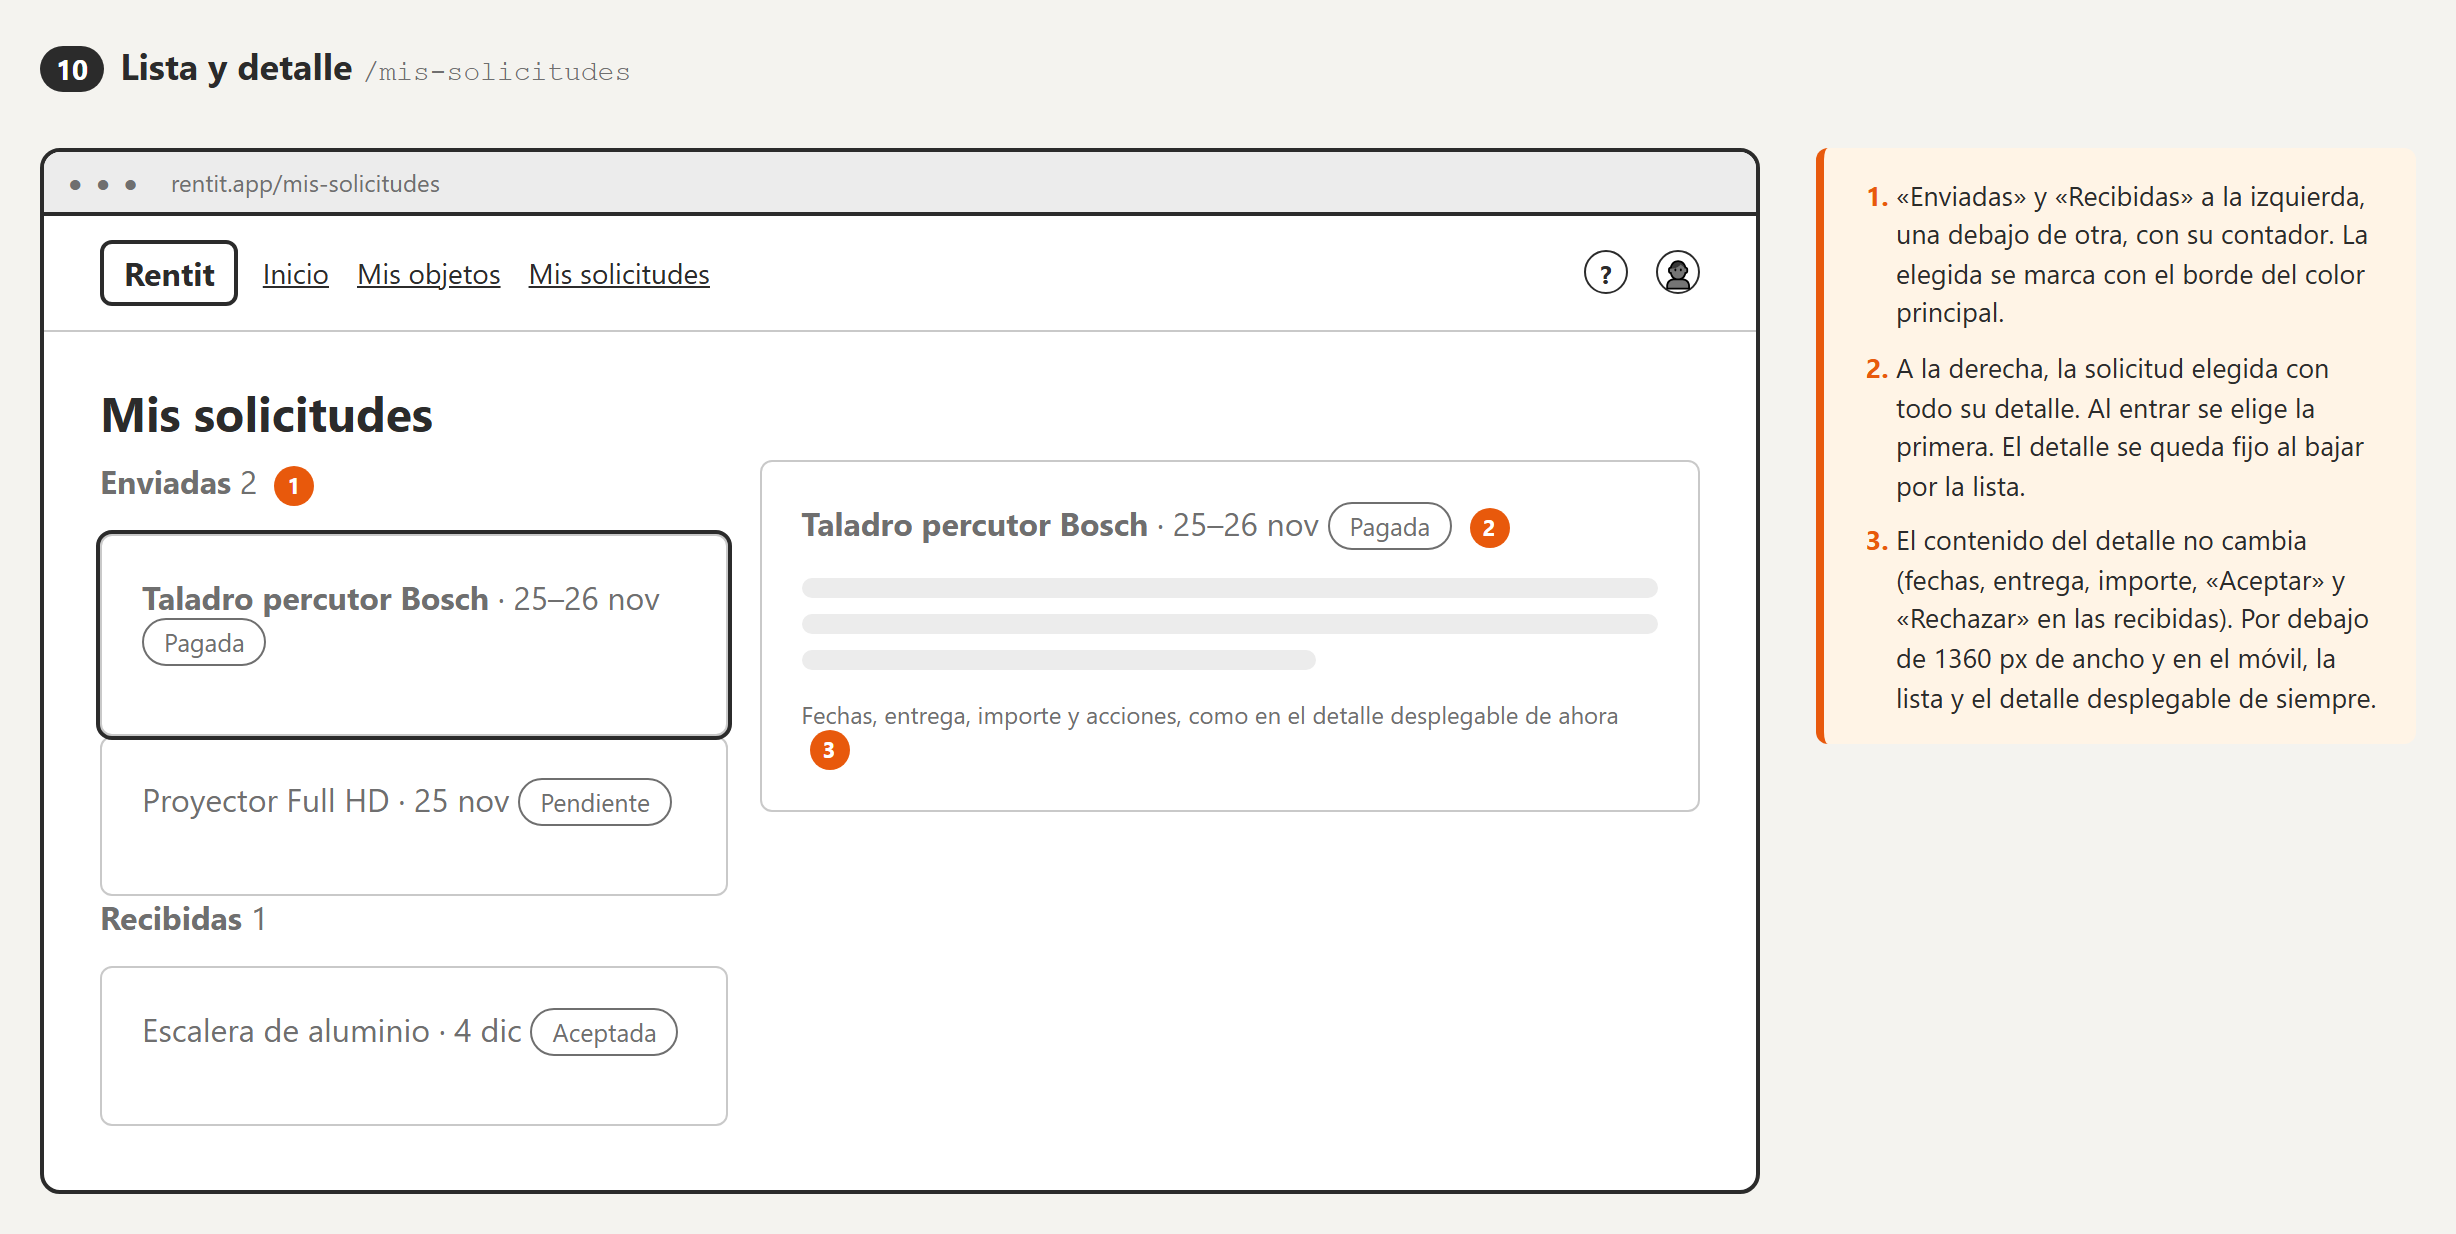
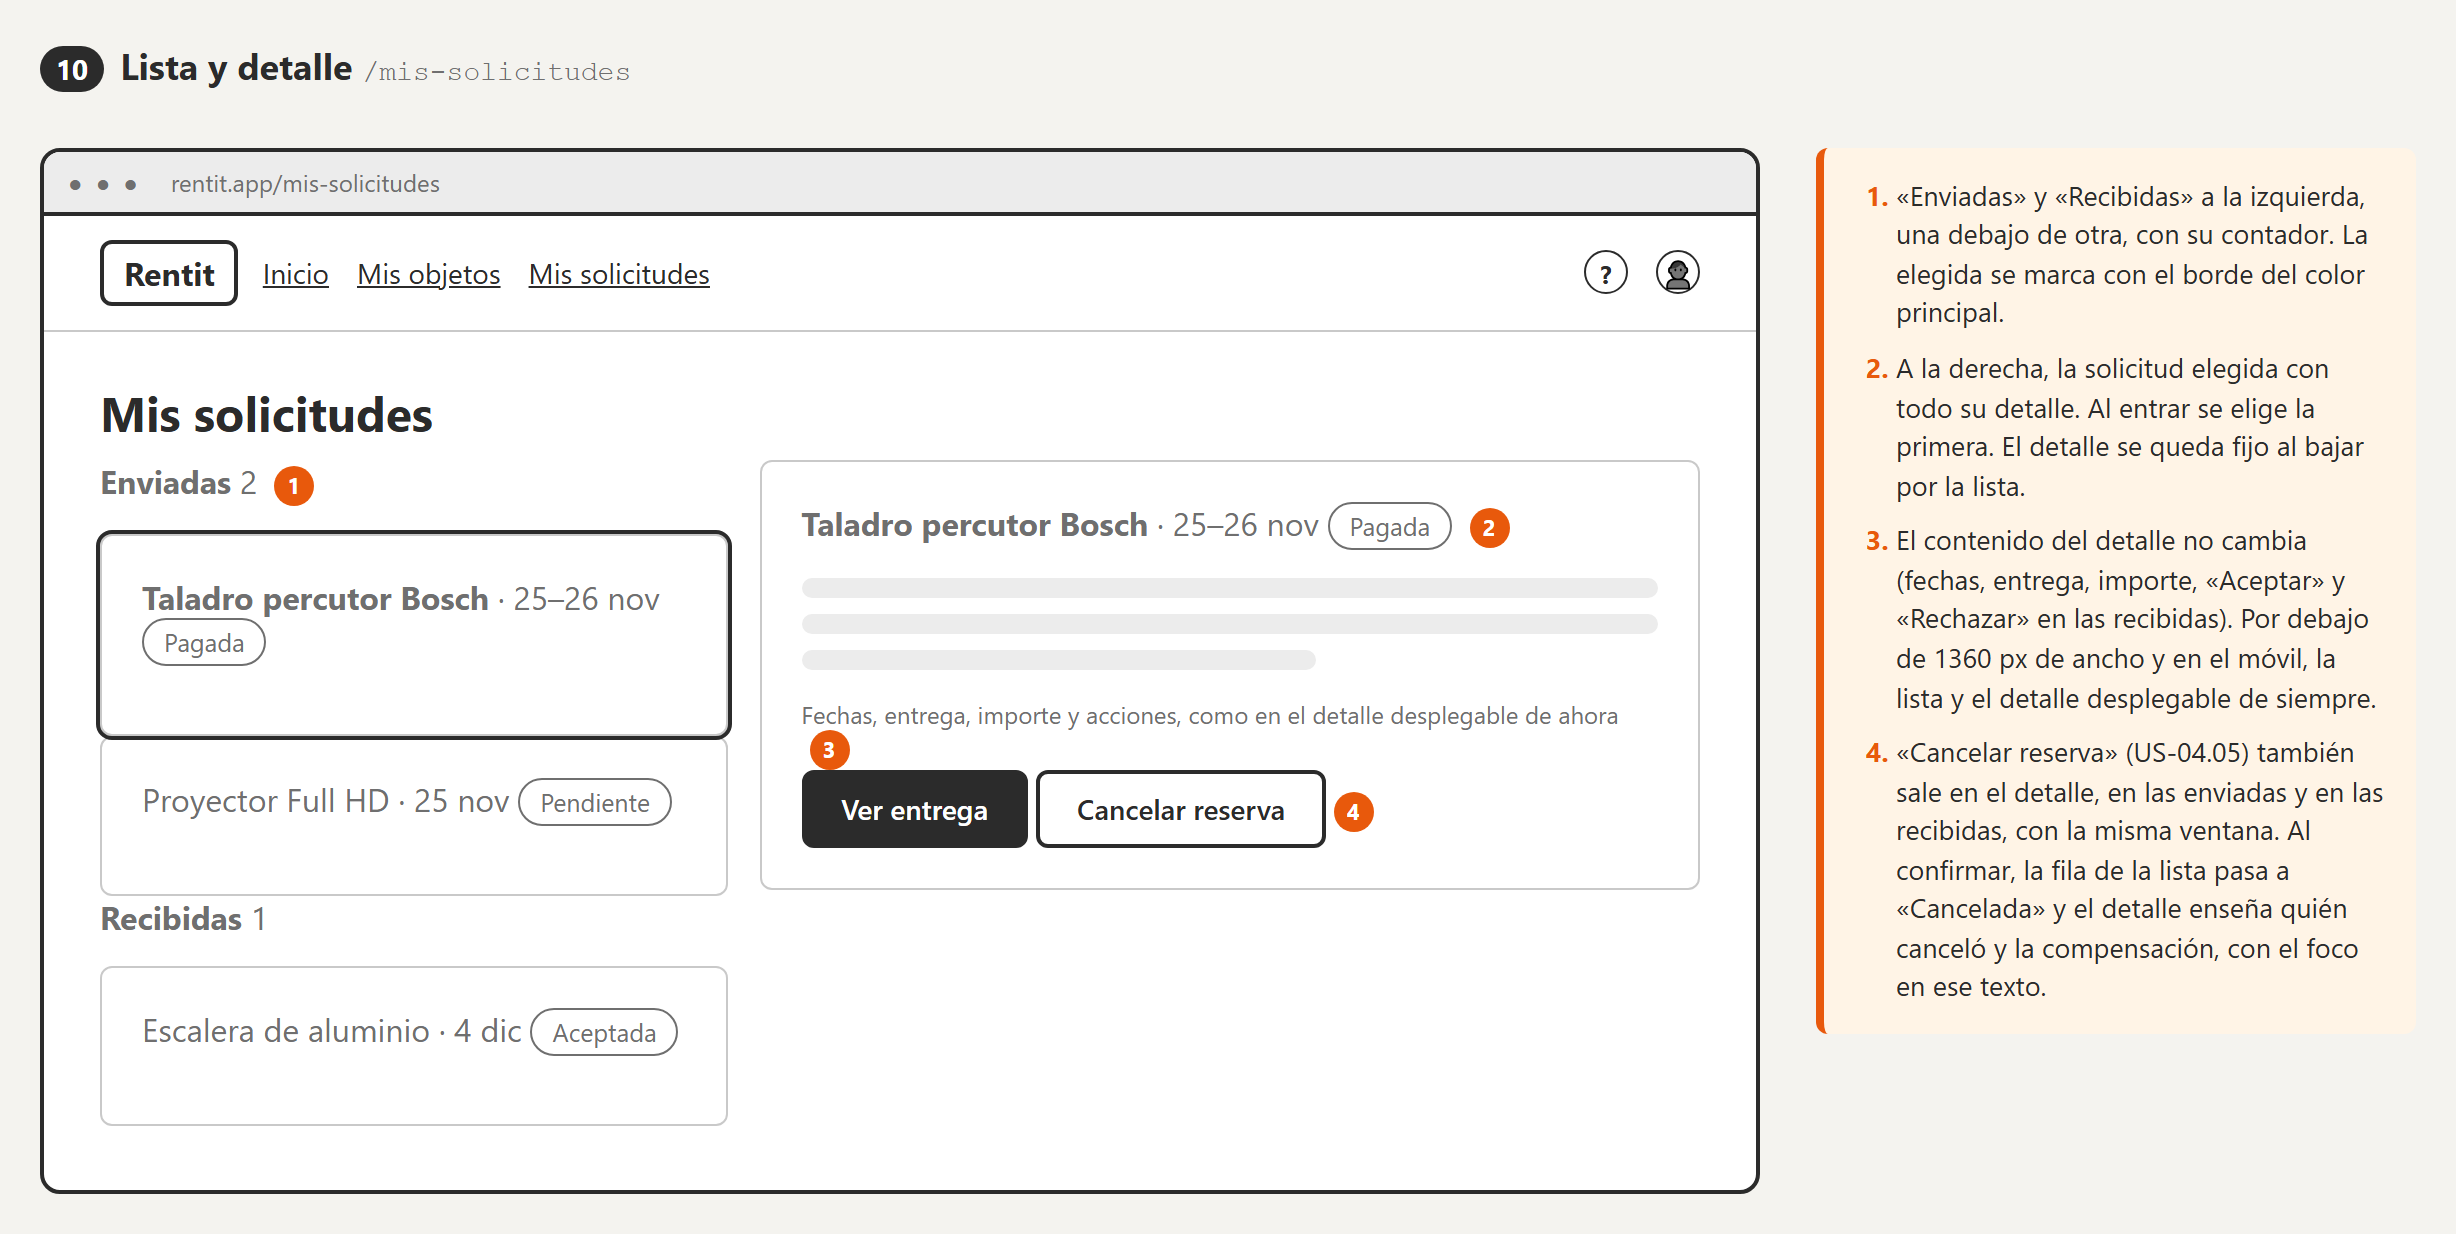
docs(wireframe): US-04.02 «Cancelar reserva» también en el detalle de la lista y detalle (#420)

Changed region(s): [[0.7736, 0.5851, 0.9593, 0.8006], [0.3094, 0.6159, 0.557, 0.7083], [0.7117, 0.6159, 0.7427, 0.8314]]

diff --git a/docs/wireframes/US-04.02-mis-solicitudes/index.html b/docs/wireframes/US-04.02-mis-solicitudes/index.html
@@ -557,6 +557,8 @@
                 <p class="wf-texto"><strong>Taladro percutor Bosch</strong> · 25–26 nov <span class="wf-chip">Pagada</span> <span class="wf-marca">2</span></p>
                 <div class="wf-lineas"><span></span><span></span><span></span></div>
                 <p class="wf-ayuda">Fechas, entrega, importe y acciones, como en el detalle desplegable de ahora <span class="wf-marca">3</span></p>
+                <span class="wf-boton">Ver entrega</span>
+                <span class="wf-boton wf-secundario">Cancelar reserva</span><span class="wf-marca">4</span>
               </div>
             </div>
           </div>
@@ -566,6 +568,7 @@
         <li>«Enviadas» y «Recibidas» a la izquierda, una debajo de otra, con su contador. La elegida se marca con el borde del color principal.</li>
         <li>A la derecha, la solicitud elegida con todo su detalle. Al entrar se elige la primera. El detalle se queda fijo al bajar por la lista.</li>
         <li>El contenido del detalle no cambia (fechas, entrega, importe, «Aceptar» y «Rechazar» en las recibidas). Por debajo de 1360 px de ancho y en el móvil, la lista y el detalle desplegable de siempre.</li>
+        <li>«Cancelar reserva» (US-04.05) también sale en el detalle, en las enviadas y en las recibidas, con la misma ventana. Al confirmar, la fila de la lista pasa a «Cancelada» y el detalle enseña quién canceló y la compensación, con el foco en ese texto.</li>
       </ol>
     </section>
   </body>
